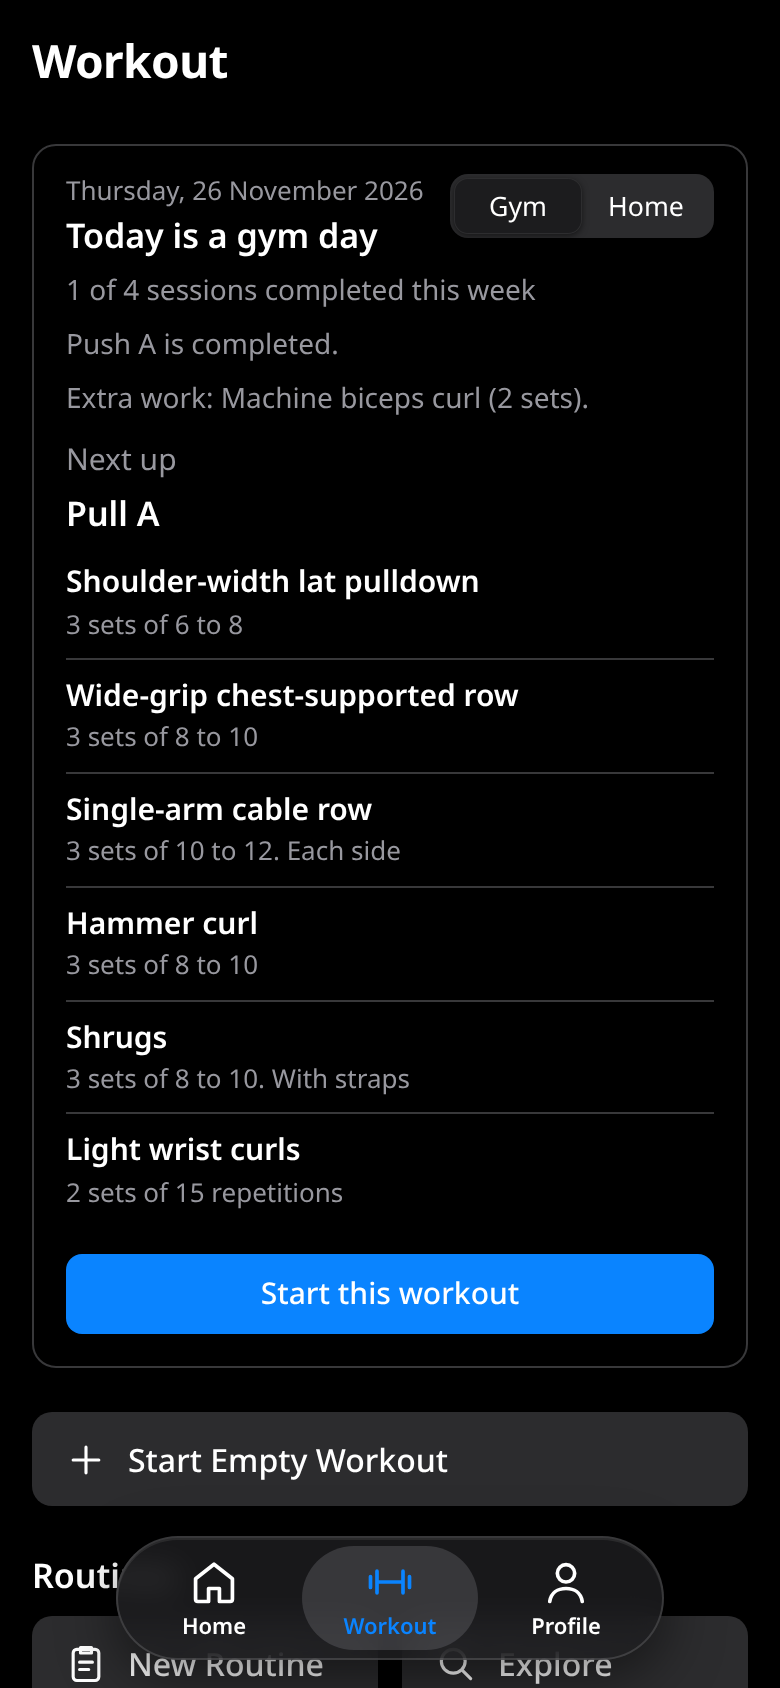
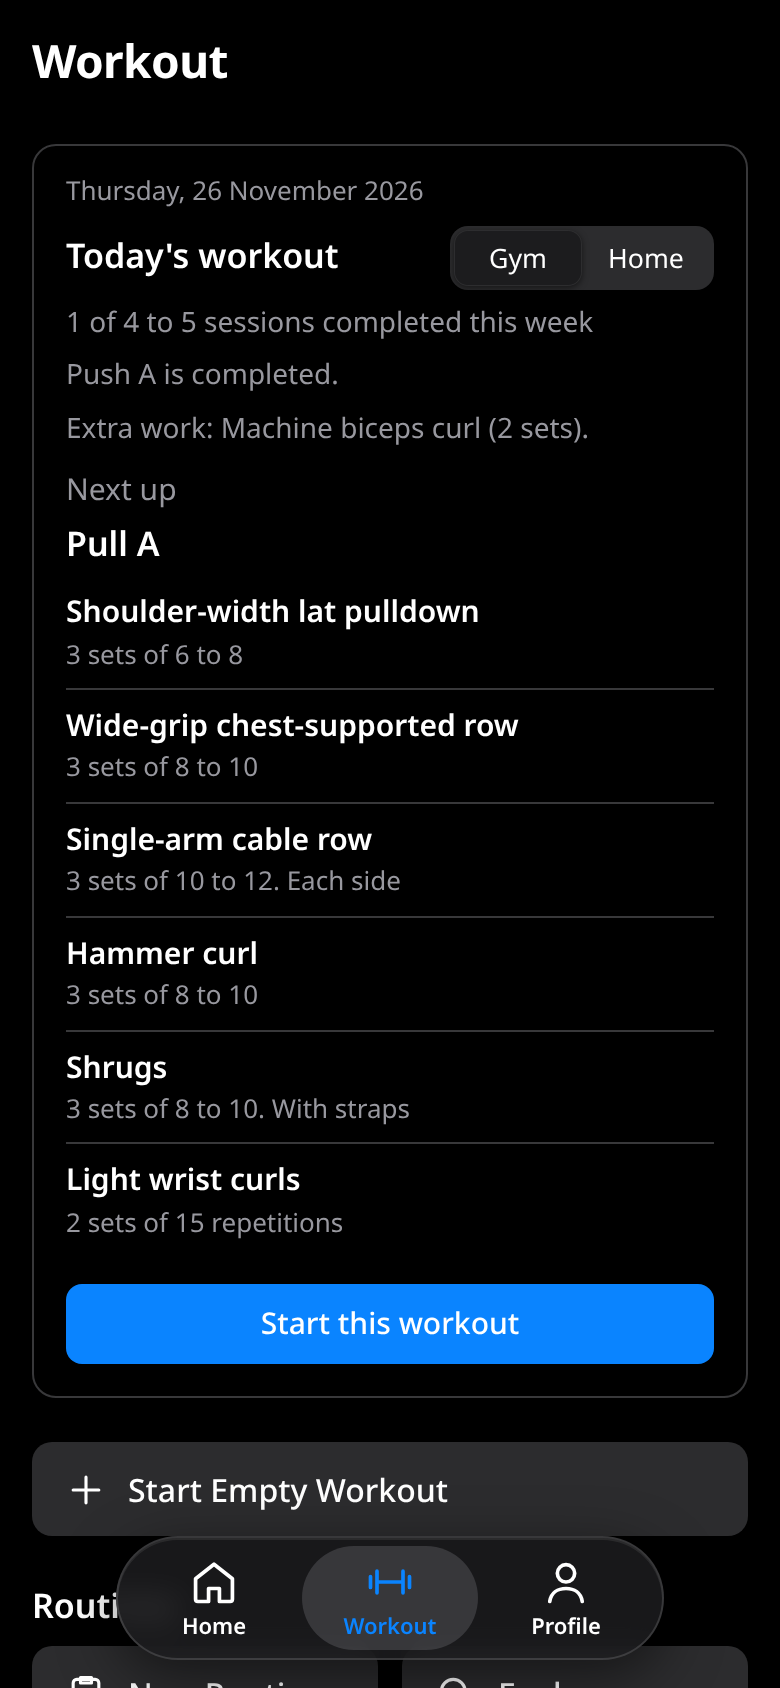
Remove fixed gym weekdays, show a 4-to-5 weekly target, and stop the date wrapping; service worker v7
Every day is Today's workout unless an override sets rest to true. The weekly line reads completed sessions from Monday to Sunday against a min-to-max target. The date now sits on its own row so it does not wrap beside the Gym / Home toggle.

diff --git a/src/main.js b/src/main.js
@@ -3,7 +3,7 @@ import {alertBox,confirmBox,promptBox,sheetBox} from './dialog.js';
 import './style.css';
 import { EXERCISES } from './exercises.js';
 import { stats, draw, SIZE, recordVideo } from './share.js';
-import {loadSchedule,computeToday,exercisesForSession,exerciseDetail,workoutNote,matchExercise,readLocation,writeLocation} from './schedule.js';
+import {loadSchedule,computeToday,exercisesForSession,exerciseDetail,workoutNote,matchExercise,readLocation,writeLocation,formatWeeklyTarget} from './schedule.js';
 const KEY='repforge-data-v1';
 const db=Object.assign({workouts:[],routines:[],active:null,profileName:'Victricius'},JSON.parse(localStorage.getItem(KEY)||'{}'));
 const save=()=>localStorage.setItem(KEY,JSON.stringify(db));
@@ -12,9 +12,9 @@ const ui={pages:[],metric:'duration',equip:'All',share:null,tab:'home',view:null
 const exById=id=>EXERCISES.find(e=>e.id===id)||(db.customExercises||[]).find(e=>e.id===id)||{name:id,muscle:'',equipment:''};
 function ensureExercise(name){const hit=matchExercise(name,[...EXERCISES,...(db.customExercises||[])]);if(hit.custom&&!(db.customExercises||[]).some(e=>e.id===hit.id)){(db.customExercises??=[]).push({id:hit.id,name:hit.name,muscle:hit.muscle||'',equipment:hit.equipment||'Other'});save()}return hit.id}
 function todayCard(){if(!scheduleData)return'';const info=computeToday(scheduleData);const loc=ui.location==='home'?'home':'gym';const listed=info.startSession;const exercises=exercisesForSession(scheduleData,listed,loc);const extras=(info.status==='done'&&info.logEntry?.extras)||[];
- const week=info.weeklyDone===1?`1 of ${info.weeklyTarget} sessions completed this week`:`${info.weeklyDone} of ${info.weeklyTarget} sessions completed this week`;
+ const week=`${info.weeklyDone===1?'1':info.weeklyDone} of ${formatWeeklyTarget(info.weeklyTarget)} sessions completed this week`;
  const seg=`<div class="segment" role="tablist" aria-label="Workout location"><button type="button" class="${loc==='gym'?'on':''}" data-a="setLocation" data-v="gym">Gym</button><button type="button" class="${loc==='home'?'on':''}" data-a="setLocation" data-v="home">Home</button></div>`;
- const heading=info.isRestDay?'Today is a rest day':'Today is a gym day';
+ const heading=info.isRestDay?'Today is a rest day':"Today's workout";
  let body='';
  if(info.status==='done'){body+=`<p class="today-status">${esc(info.todaySession)} is completed.</p>`;if(extras.length)body+=`<p class="today-extras">Extra work: ${extras.map(x=>`${esc(x.name)}${x.sets?` (${x.sets} ${x.sets===1?'set':'sets'})`:''}`).join(', ')}.</p>`;if(info.nextSession)body+=`<p class="label">Next up</p><h3 class="today-session">${esc(info.nextSession)}</h3>`}
  else if(info.status==='skipped'){body+=`<p class="today-status">${esc(info.todaySession)} was skipped.</p>`;if(info.nextSession)body+=`<p class="label">Next up</p><h3 class="today-session">${esc(info.nextSession)}</h3>`}
@@ -23,7 +23,7 @@ function todayCard(){if(!scheduleData)return'';const info=computeToday(scheduleD
  const list=exercises.map(ex=>`<li><b>${esc(ex.name)}</b><small>${esc(exerciseDetail(ex))}</small></li>`).join('');
  const start=listed?`<button class="btn primary wide" data-a="startSchedule">Start this workout</button>`:'';
  const equip=loc==='home'&&scheduleData.homeEquipment?`<p class="today-equip">Equipment at home: ${esc(scheduleData.homeEquipment)}.</p>`:'';
- return `<div class="today"><div class="today-top"><div><p class="today-date">${esc(info.displayDate)}</p><h3>${heading}</h3></div>${seg}</div><p class="today-week">${week}</p>${body}${list?`<ul class="today-ex">${list}</ul>`:''}${equip}${start}</div>`}
+ return `<div class="today"><p class="today-date">${esc(info.displayDate)}</p><div class="today-top"><h3>${heading}</h3>${seg}</div><p class="today-week">${week}</p>${body}${list?`<ul class="today-ex">${list}</ul>`:''}${equip}${start}</div>`}
 const $=s=>document.querySelector(s);
 const esc=s=>String(s).replace(/[&<>"]/g,c=>({'&':'&amp;','<':'&lt;','>':'&gt;','"':'&quot;'}[c]));
 const fmtDur=s=>{s=Math.max(0,Math.floor(s));const h=Math.floor(s/3600),m=Math.floor(s%3600/60),x=s%60;return h?`${h}h ${m}min`:m?`${m}min ${x}s`:`${x}s`};

diff --git a/src/schedule.js b/src/schedule.js
@@ -53,15 +53,10 @@ export function computedUpcoming(schedule) {
   return sessionAfter(schedule.rotation, last.session);
 }
 
-export function isGymDay(schedule, date = new Date()) {
+export function isRestDay(schedule, date = new Date()) {
   const iso = isoDate(date);
   const override = (schedule.overrides || {})[iso];
-  if (override && override.rest === true) return false;
-  if (override && override.rest === false) return true;
-  if (override && override.session) return true;
-  const days = schedule.gymDays;
-  if (!days || days.length === 0) return true;
-  return days.includes(weekdayName(date));
+  return !!(override && override.rest === true);
 }
 
 export function weekStartMonday(date = new Date()) {
@@ -81,9 +76,21 @@ export function weeklyDoneCount(schedule, date = new Date()) {
 }
 
 export function weeklyTarget(schedule) {
-  const days = schedule.gymDays;
-  if (Array.isArray(days) && days.length) return days.length;
-  return 4;
+  const t = schedule && schedule.weeklyTarget;
+  const min = Number(t && t.min);
+  const max = Number(t && t.max);
+  return {
+    min: Number.isFinite(min) && min > 0 ? min : 4,
+    max: Number.isFinite(max) && max > 0 ? max : 5,
+  };
+}
+
+export function formatWeeklyTarget(target) {
+  const t = target && typeof target === 'object' && 'min' in target ? target : weeklyTarget({});
+  const a = t.min;
+  const b = t.max;
+  if (a === b) return String(a);
+  return `${Math.min(a, b)} to ${Math.max(a, b)}`;
 }
 
 export function exercisesForSession(schedule, sessionName, location = 'gym') {
@@ -136,39 +143,39 @@ export function computeToday(schedule, date = new Date()) {
   const weekday = weekdayName(when);
   const override = (schedule.overrides || {})[iso] || null;
   const logEntry = todaysLog(schedule, iso);
-  const gymDay = isGymDay(schedule, when);
+  const restDay = isRestDay(schedule, when);
   const upcoming = computedUpcoming(schedule);
 
   let todaySession = null;
   let status = null;
-  if (override && override.session) {
+  if (restDay) {
+    todaySession = logEntry ? logEntry.session : null;
+    status = logEntry ? logEntry.status : null;
+  } else if (override && override.session) {
     todaySession = override.session;
     status = logEntry ? logEntry.status : null;
   } else if (logEntry) {
     todaySession = logEntry.session;
     status = logEntry.status;
-  } else if (gymDay) {
+  } else {
     todaySession = upcoming;
   }
 
-  const completedOrRest = status === 'done' || !gymDay;
   let nextSession = upcoming;
   if (status === 'done') {
-    if (schedule.next && schedule.next !== todaySession) nextSession = schedule.next;
-    else if (schedule.next && schedule.next === todaySession) nextSession = schedule.next;
+    if (schedule.next) nextSession = schedule.next;
     else nextSession = sessionAfter(schedule.rotation, todaySession);
   } else if (status === 'skipped') {
     nextSession = upcoming;
   }
 
-  const startSession = completedOrRest ? nextSession : todaySession;
+  const startSession = (status === 'done' || restDay) ? nextSession : todaySession;
 
   return {
     date: iso,
     weekday,
     displayDate: longDate(when),
-    isGymDay: gymDay,
-    isRestDay: !gymDay,
+    isRestDay: restDay,
     todaySession,
     status,
     logEntry,

diff --git a/src/style.css b/src/style.css
@@ -147,9 +147,9 @@ b.big{display:block;font-size:28px;font-weight:600}
 
 /* Today schedule card */
 .today{border:1px solid var(--line);border-radius:12px;padding:14px 16px 16px;margin:6px 0 16px}
-.today-top{display:flex;justify-content:space-between;align-items:flex-start;gap:12px;margin-bottom:8px}
-.today-date{color:var(--muted);font-size:13px;margin:0 0 2px}
-.today-top h3{margin:0;font-size:17px;font-weight:600}
+.today-date{color:var(--muted);font-size:13px;margin:0 0 8px}
+.today-top{display:flex;justify-content:space-between;align-items:center;gap:12px;margin-bottom:8px}
+.today-top h3{margin:0;font-size:17px;font-weight:600;min-width:0}
 .today-session{margin:0 0 4px;font-size:17px;font-weight:600}
 .today-week,.today-status,.today-extras,.today-equip{color:var(--muted);font-size:14px;margin:0 0 8px}
 .today .label{margin:10px 0 6px}

diff --git a/public/sw.js b/public/sw.js
@@ -1,4 +1,4 @@
-const C='repforge-v6';
+const C='repforge-v7';
 self.addEventListener('install',e=>{self.skipWaiting();e.waitUntil(caches.open(C).then(c=>c.addAll(['./','./index.html','./manifest.webmanifest','./icon.svg'])))});
 self.addEventListener('activate',e=>e.waitUntil(caches.keys().then(k=>Promise.all(k.filter(x=>x!==C).map(x=>caches.delete(x)))).then(()=>self.clients.claim())));
 self.addEventListener('fetch',e=>{const r=e.request;if(r.method!=='GET'||new URL(r.url).origin!==location.origin)return;

diff --git a/SCHEDULE.md b/SCHEDULE.md
@@ -11,12 +11,12 @@ Do not put Victricius's private training notes anywhere except this file and the
 | `version` | Number. Raise it when you change the meaning of a field. |
 | `updated` | The date you last edited the file, as `YYYY-MM-DD`. |
 | `rotation` | The five sessions in order: Push A, Pull A, Legs, Push B, Pull B. |
-| `gymDays` | Weekday names such as `"Monday"`. An empty list or `null` means the days are not set, so the app treats every day as a possible gym day unless you override it. |
+| `weeklyTarget` | How many sessions he aims to complete in a week (Monday to Sunday), as `{ "min": 4, "max": 5 }`. If this field is missing, the app uses 4 to 5. |
 | `homeEquipment` | A short note shown when the Home list is selected. |
 | `sessions` | The gym exercise list for each session name. |
 | `homeSessions` | The home exercise list for the same five session names. |
 | `log` | A list of completed or skipped sessions, oldest first. Append a new row; do not rewrite history unless you are correcting a mistake. |
-| `overrides` | A map of `YYYY-MM-DD` to a one-day change (swap the session, force a rest day, or add a note). |
+| `overrides` | A map of `YYYY-MM-DD` to a one-day change (swap the session, mark a rest day with `"rest": true`, or add a note). There are no fixed gym weekdays; every day is a training day unless you set `rest` to `true`. |
 | `next` | Optional. If set to a session name, that session is the next one to do, instead of the session after the last completed log entry. Set it back to `null` once that session has been logged as done, or the same session will be offered again. |
 
 Each exercise is an object:
@@ -37,11 +37,13 @@ Each log entry is an object:
 
 ## How the app decides what today is
 
-1. If `overrides` has an entry for today and `rest` is `true`, today is a rest day.
-2. If that override has `rest` set to `false`, or names a `session`, today is a gym day and the named session is used.
-3. Otherwise, if `gymDays` is empty or missing, today is treated as a gym day. If `gymDays` lists weekdays, today is a gym day only when today's weekday is in that list.
-4. Today's session is, in this order: the override's `session` if present; otherwise the log entry for today if one exists; otherwise the `next` field if it is set; otherwise the session after the most recent log entry whose status is `"done"`. Skipped entries are ignored when advancing the rotation.
-5. When today is already completed, or is a rest day, the card also shows **Next up**: the session that should be done next, using the same rule.
+There are no fixed training weekdays. Every day shows the next session in the rotation as **Today's workout**, unless you mark that date as a rest day.
+
+1. If `overrides` has an entry for today and `rest` is `true`, today is a rest day. The card then shows **Next up** instead of today's workout.
+2. Otherwise today's session is, in this order: the override's `session` if present; otherwise the log entry for today if one exists; otherwise the `next` field if it is set; otherwise the session after the most recent log entry whose status is `"done"`. Skipped entries are ignored when advancing the rotation.
+3. When today is already completed, or is a rest day, the card also shows **Next up**: the session that should be done next, using the same rule.
+
+The weekly line on the card counts completed sessions from Monday to Sunday, and reads them against `weeklyTarget` (for example, "1 of 4 to 5 sessions completed this week").
 
 The Gym / Home toggle only changes which exercise list is shown and which exercises are copied into a started workout. It does not change which session name is due.
 
@@ -57,7 +59,7 @@ To give Victricius Legs today (for example 27 November 2026) instead of the comp
 }
 ```
 
-### Force a rest day, or force a gym day
+### Mark a rest day
 
 ```json
 "overrides": {
@@ -65,13 +67,7 @@ To give Victricius Legs today (for example 27 November 2026) instead of the comp
 }
 ```
 
-```json
-"overrides": {
-  "2026-11-29": { "rest": false, "session": "Pull A" }
-}
-```
-
-The second form is useful when `gymDays` is set and you want him to train on a day that is not in the list.
+Only an explicit `"rest": true` override makes a rest day. There is no weekday list to maintain.
 
 ### Restart the rotation
 
@@ -126,15 +122,13 @@ Edit the object inside `sessions` (gym) or `homeSessions` (home). Keep the sessi
 {"name": "Chest press machine", "sets": 3, "reps": "5-7", "note": "Heavier top set"}
 ```
 
-### Set the usual gym days
-
-Once the four weekdays are confirmed:
+### Change the weekly target
 
 ```json
-"gymDays": ["Monday", "Tuesday", "Thursday", "Friday"]
+"weeklyTarget": { "min": 4, "max": 5 }
 ```
 
-Use full English weekday names, with a capital letter.
+If the minimum and the maximum are the same number, the card will say "4 sessions" rather than "4 to 5 sessions".
 
 ## After you commit
 
